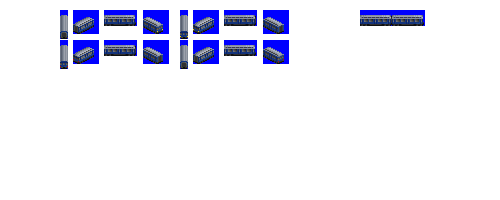
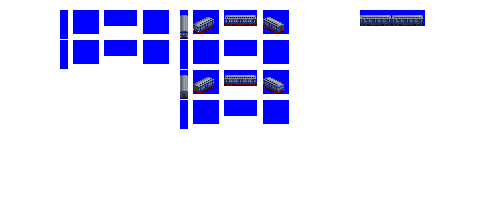
Change: improved sprites for Serpentine metro

Changed region(s): [[0.36, 0.06, 0.6, 0.66], [0.12, 0.06, 0.33, 0.36]]

diff --git a/src/train.py b/src/train.py
@@ -394,6 +394,22 @@ class PassengerEngineConsist(EngineConsist):
         self.default_cargos = ['PASS']
 
 
+class PassengerEngineMetroConsist(PassengerEngineConsist):
+    """
+    Consist for a pax metro train.  Just a sparse subclass to force the gestalt_graphics
+    """
+
+    def __init__(self, **kwargs):
+        super().__init__(**kwargs)
+        # Graphics configuration
+        # 1 livery as can't be flipped, 1 spriterow may be left blank for compatibility with Gestalt (TBC)
+        # position variants
+        # * unit with driving cab front end
+        # * unit with driving cab rear end
+        spriterow_group_mappings = {'pax': {'default': 0, 'first': 0, 'last': 1, 'special': 0}}
+        self.gestalt_graphics = GestaltGraphicsConsistSpecificLivery(spriterow_group_mappings, consist_ruleset="pax_railcars")
+
+
 class PassengerEngineRailcarConsist(PassengerEngineConsist):
     """
     Consist for a pax railcar.  Just a sparse subclass to force the gestalt_graphics and allow_flip
@@ -410,10 +426,10 @@ class PassengerEngineRailcarConsist(PassengerEngineConsist):
             self.roof_type = 'pax_mail_smooth'
         # 2 liveries, should match local and express liveries of pax cars for this generation
         # position variants
-        # * unit with driving cabs both ends
         # * unit with driving cab front end
         # * unit with driving cab rear end
         # * unit with no cabs (center car)
+        # * special unit with no cabs (center car)
         # ruleset will combine these to make multiple-units 1, 2, or 3 vehicles long, then repeating the pattern
         spriterow_group_mappings = {'pax': {'default': 0, 'first': 1, 'last': 2, 'special': 3}}
         self.gestalt_graphics = GestaltGraphicsConsistSpecificLivery(spriterow_group_mappings, consist_ruleset="pax_railcars")
@@ -431,13 +447,13 @@ class PassengerEngineVeryHighSpeedConsist(PassengerEngineConsist):
         # can't generate roofs as power cars are slopey, the roof would need to be variable length per unit
         self.generate_unit_roofs = False
         self.roof_type = None
-        # 2 liveries, should match local and express liveries of pax cars for this generation
+        # 1 livery as can't be flipped, 1 spriterow may be left blank for compatibility with Gestalt (TBC)
         # position variants
         # * unit with driving cabs both ends
         # * unit with driving cab front end
         # * unit with driving cab rear end
         # * unit with no cabs (center car)
-        # ruleset will combine these to make multiple-units 1, 2, or 3 vehicles long, then repeating the pattern
+        # ruleset will combine these to make multiple-units n vehicles long
         spriterow_group_mappings = {'pax': {'default': 0, 'first': 1, 'last': 2, 'special': 3}}
         self.gestalt_graphics = GestaltGraphicsConsistSpecificLivery(spriterow_group_mappings, consist_ruleset="pax_very_high_speed")
 
@@ -1431,7 +1447,7 @@ class MetroUnit(Train):
         self.engine_class = 'ENGINE_CLASS_ELECTRIC'
         self.visual_effect = 'VISUAL_EFFECT_ELECTRIC'
         self.consist.str_name_suffix = 'STR_NAME_SUFFIX_METRO'
-        # metros are asymmetric, with cab at one end of each vehicle only
+        # the cab magic won't work unless it's asymmetrical eh? :P
         self._symmetry_type = 'asymmetric'
 
 

diff --git a/src/vehicles/serpentine.py b/src/vehicles/serpentine.py
@@ -1,23 +1,19 @@
-from train import PassengerEngineConsist, MetroUnit
+from train import PassengerEngineMetroConsist, MetroUnit
 
-consist = PassengerEngineConsist(id='serpentine',
-                                 base_numeric_id=460,
-                                 name='Serpentine',
-                                 role='pax_metro',
-                                 track_type='METRO',
-                                 power=600,
-                                 type_base_buy_cost_points=40,  # dibble buy cost for game balance
-                                 gen=2)  # no intro_date_offset for this unit by design
+consist = PassengerEngineMetroConsist(id='serpentine',
+                                      base_numeric_id=460,
+                                      name='Serpentine',
+                                      role='pax_metro',
+                                      track_type='METRO',
+                                      power=600,
+                                      type_base_buy_cost_points=40,  # dibble buy cost for game balance
+                                      gen=2)  # no intro_date_offset for this unit by design
 
 # should be 4 units not 2, would look nicer short
 consist.add_unit(type=MetroUnit,
                  weight=40,
                  vehicle_length=8,
                  capacity=120,
-                 spriterow_num=0)
-
-consist.add_unit(type=MetroUnit,
-                 weight=40,
-                 vehicle_length=8,
-                 capacity=120,
-                 spriterow_num=1)
+                 spriterow_num=0,
+                 chassis='railcar',
+                 repeat=2)
